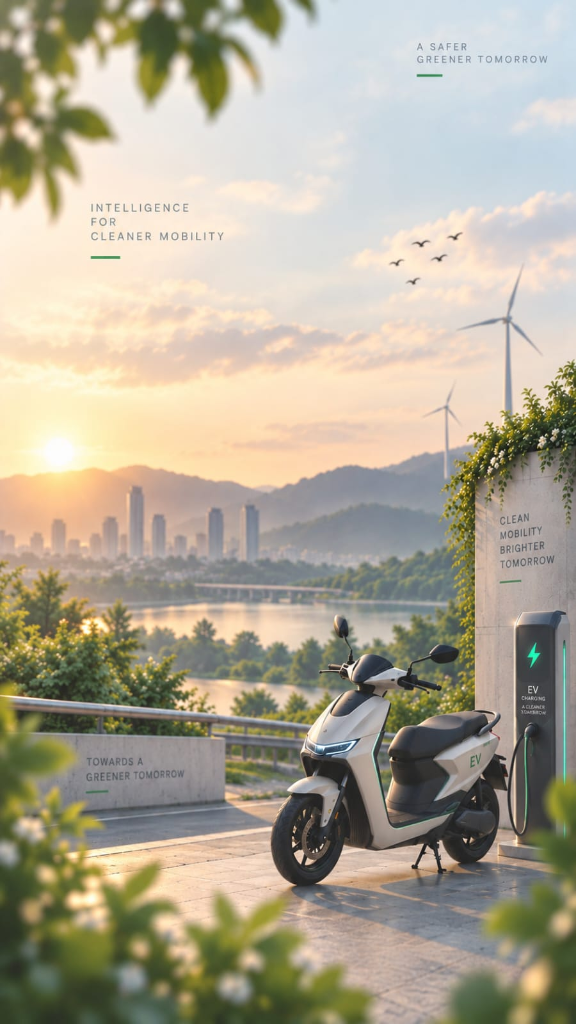
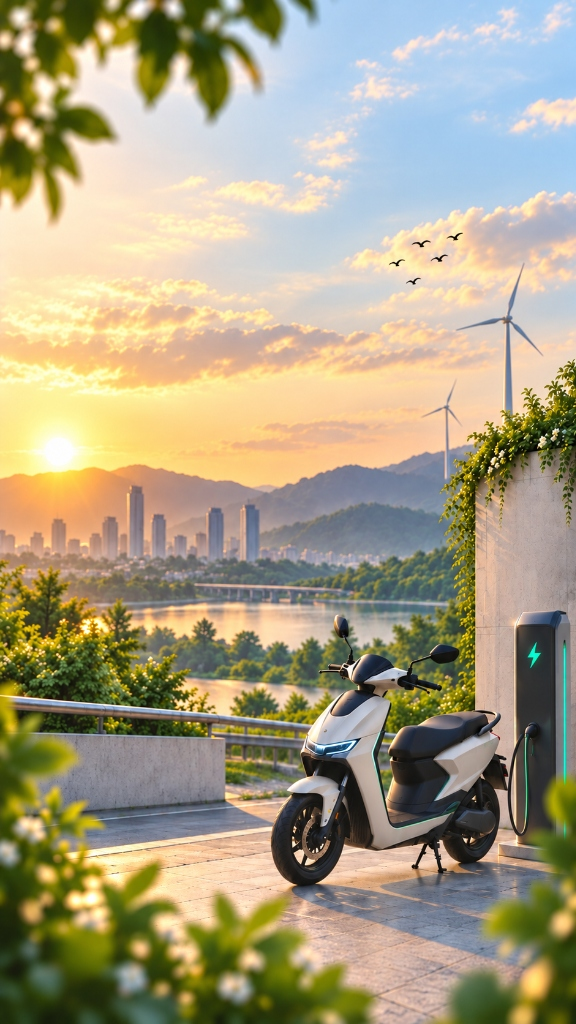
feat: add 70% opacity scooter bg to login screen, make login box transparent, remove bg image from dashboard

diff --git a/frontend/src/screens/LoginScreen.tsx b/frontend/src/screens/LoginScreen.tsx
@@ -3,6 +3,7 @@ import { Battery3DView } from '../components/Battery3DView';
 import { ErrorBoundary } from '../components/ErrorBoundary';
 import { Lock, Mail, ArrowRight, PlayCircle, Eye, EyeOff, UserPlus, Leaf, ShieldCheck, BarChart2 } from 'lucide-react';
 import { apiService } from '../services/api';
+import scooterBg from '../assets/scooter_bg.jpg';
 
 interface LoginScreenProps {
   onLoginSuccess: (isDemo?: boolean) => void;
@@ -41,17 +42,17 @@ export const LoginScreen: React.FC<LoginScreenProps> = ({
 
   return (
     <div 
-      className="min-h-screen bg-slate-900 flex items-center justify-center p-0 sm:p-4 selection:bg-emerald-500/20 bg-cover bg-center relative"
-      style={{ backgroundImage: "linear-gradient(rgba(15, 23, 42, 0.4), rgba(15, 23, 42, 0.4)), url('/ev_scooter_hero.png')" }}
+      className="min-h-screen bg-slate-950 flex items-center justify-center p-0 sm:p-4 selection:bg-emerald-500/20 bg-cover bg-center relative overflow-hidden"
+      style={{ backgroundImage: `url(${scooterBg})` }}
     >
-      {/* MOBILE APP CONTAINER FRAME */}
-      <div className="w-full sm:max-w-[400px] min-h-screen sm:min-h-[850px] sm:max-h-[920px] sm:rounded-[46px] relative overflow-hidden shadow-2xl border-0 sm:border-[10px] sm:border-slate-900 bg-white/80 text-slate-900 flex flex-col justify-between p-4 sm:p-5 backdrop-blur-xs">
-        
-        {/* 60% VISIBILITY BACKGROUND IMAGE OVERLAY */}
-        <div 
-          className="absolute inset-0 z-0 bg-cover bg-center pointer-events-none opacity-60"
-          style={{ backgroundImage: "url('/ev_scooter_hero.png')" }}
-        />
+      {/* 70% VISIBILITY BACKGROUND OVERLAY */}
+      <div 
+        className="absolute inset-0 z-0 bg-cover bg-center pointer-events-none opacity-70"
+        style={{ backgroundImage: `url(${scooterBg})` }}
+      />
+
+      {/* MOBILE APP CONTAINER FRAME (100% TRANSPARENT CONTAINER) */}
+      <div className="w-full sm:max-w-[400px] min-h-screen sm:min-h-[850px] sm:max-h-[920px] sm:rounded-[46px] relative overflow-hidden shadow-2xl border-0 sm:border-[10px] sm:border-slate-900/80 bg-transparent text-slate-900 flex flex-col justify-between p-4 sm:p-5 z-10 backdrop-blur-none">
 
         {/* iOS TOP STATUS BAR */}
         <div className="relative z-10 flex items-center justify-between text-xs font-black text-slate-900 select-none pt-1 pb-1">
@@ -63,7 +64,7 @@ export const LoginScreen: React.FC<LoginScreenProps> = ({
         </div>
 
         {/* TOP SUB-TAGLINE */}
-        <div className="relative z-10 flex items-center justify-end text-[10px] font-bold text-slate-700 gap-1.5 pt-1">
+        <div className="relative z-10 flex items-center justify-end text-[10px] font-bold text-slate-800 gap-1.5 pt-1">
           <Leaf className="w-3.5 h-3.5 text-[#059669]" />
           <div className="text-right leading-tight text-[9px] font-black">
             A Cleaner<br />Greener Tomorrow
@@ -80,10 +81,10 @@ export const LoginScreen: React.FC<LoginScreenProps> = ({
           </div>
 
           <div className="flex items-center gap-1 mt-1">
-            <span className="text-2xl font-black tracking-tight text-slate-900">BRAIN</span>
-            <span className="text-2xl font-black tracking-tight text-[#059669]">EV</span>
+            <span className="text-2xl font-black tracking-tight text-slate-900 drop-shadow-sm">BRAIN</span>
+            <span className="text-2xl font-black tracking-tight text-[#059669] drop-shadow-sm">EV</span>
           </div>
-          <p className="text-xs font-bold text-slate-700">Battery Intelligence</p>
+          <p className="text-xs font-bold text-slate-800 drop-shadow-xs">Battery Intelligence</p>
           <p className="text-[11px] font-extrabold italic text-[#047857] drop-shadow-xs">“Think Ahead. Protect Every Battery.”</p>
         </div>
 
@@ -95,7 +96,7 @@ export const LoginScreen: React.FC<LoginScreenProps> = ({
             </ErrorBoundary>
           </div>
           
-          <div className="text-[10px] font-extrabold text-slate-700 tracking-wide mt-1 bg-white/70 px-2.5 py-0.5 rounded-full border border-slate-200/80 backdrop-blur-xs">
+          <div className="text-[10px] font-extrabold text-slate-800 tracking-wide mt-1 bg-white/80 px-2.5 py-0.5 rounded-full border border-slate-200/80 backdrop-blur-xs shadow-2xs">
             Drag to <span className="text-[#059669]">rotate</span> • Pinch to <span className="text-[#059669]">zoom</span>
           </div>
           
@@ -107,8 +108,8 @@ export const LoginScreen: React.FC<LoginScreenProps> = ({
           </div>
         </div>
 
-        {/* 3. INPUT FORM CARD */}
-        <div className="relative z-10 space-y-2.5 my-1 bg-white/80 backdrop-blur-md p-3.5 rounded-3xl border border-white/90 shadow-md">
+        {/* 3. INPUT FORM CARD - 100% TRANSPARENT LOGIN BOX */}
+        <div className="relative z-10 space-y-2.5 my-1 bg-transparent p-3.5 rounded-3xl border border-white/30">
           {errorMsg && (
             <div className="p-2 rounded-xl bg-red-600 text-white text-xs font-bold shadow-md">
               {errorMsg}
@@ -117,31 +118,31 @@ export const LoginScreen: React.FC<LoginScreenProps> = ({
 
           <form onSubmit={handleLoginSubmit} className="space-y-2.5">
             <div className="relative">
-              <Mail className="w-4 h-4 text-slate-400 absolute left-4 top-1/2 -translate-y-1/2" />
+              <Mail className="w-4 h-4 text-slate-500 absolute left-4 top-1/2 -translate-y-1/2" />
               <input
                 type="email"
                 value={email}
                 onChange={(e) => setEmail(e.target.value)}
                 required
-                className="w-full pl-11 pr-4 py-3 bg-white/90 border border-slate-200 rounded-2xl text-xs font-bold text-slate-900 placeholder-slate-400 focus:outline-none focus:border-[#059669] focus:ring-2 focus:ring-[#059669]/20 transition shadow-2xs"
+                className="w-full pl-11 pr-4 py-3 bg-white/90 border border-slate-300 rounded-2xl text-xs font-bold text-slate-900 placeholder-slate-500 focus:outline-none focus:border-[#059669] focus:ring-2 focus:ring-[#059669]/20 transition shadow-xs focus:bg-white"
                 placeholder="researcher@brain-ev.org"
               />
             </div>
 
             <div className="relative">
-              <Lock className="w-4 h-4 text-slate-400 absolute left-4 top-1/2 -translate-y-1/2" />
+              <Lock className="w-4 h-4 text-slate-500 absolute left-4 top-1/2 -translate-y-1/2" />
               <input
                 type={showPassword ? 'text' : 'password'}
                 value={password}
                 onChange={(e) => setPassword(e.target.value)}
                 required
-                className="w-full pl-11 pr-11 py-3 bg-white/90 border border-slate-200 rounded-2xl text-xs font-bold text-slate-900 placeholder-slate-400 focus:outline-none focus:border-[#059669] focus:ring-2 focus:ring-[#059669]/20 transition shadow-2xs"
+                className="w-full pl-11 pr-11 py-3 bg-white/90 border border-slate-300 rounded-2xl text-xs font-bold text-slate-900 placeholder-slate-500 focus:outline-none focus:border-[#059669] focus:ring-2 focus:ring-[#059669]/20 transition shadow-xs focus:bg-white"
                 placeholder="••••••••••••"
               />
               <button
                 type="button"
                 onClick={() => setShowPassword(!showPassword)}
-                className="absolute right-4 top-1/2 -translate-y-1/2 text-slate-400 hover:text-slate-700 transition cursor-pointer"
+                className="absolute right-4 top-1/2 -translate-y-1/2 text-slate-500 hover:text-slate-800 transition cursor-pointer"
               >
                 {showPassword ? <EyeOff className="w-4 h-4" /> : <Eye className="w-4 h-4" />}
               </button>
@@ -151,7 +152,7 @@ export const LoginScreen: React.FC<LoginScreenProps> = ({
               <button
                 type="button"
                 onClick={() => alert('Forgot password instructions sent to your email.')}
-                className="text-[11px] font-extrabold text-[#059669] hover:underline cursor-pointer"
+                className="text-[11px] font-black text-[#047857] hover:underline cursor-pointer bg-white/80 px-2 py-0.5 rounded-md backdrop-blur-xs"
               >
                 Forgot Password?
               </button>
@@ -160,7 +161,7 @@ export const LoginScreen: React.FC<LoginScreenProps> = ({
             <button
               type="submit"
               disabled={isSubmitting}
-              className="w-full py-3.5 bg-[#059669] hover:bg-[#047857] text-white font-extrabold text-xs sm:text-sm rounded-2xl transition flex items-center justify-center gap-2 shadow-md uppercase tracking-wider cursor-pointer active:scale-[0.99]"
+              className="w-full py-3.5 bg-[#059669] hover:bg-[#047857] text-white font-black text-xs sm:text-sm rounded-2xl transition flex items-center justify-center gap-2 shadow-lg uppercase tracking-wider cursor-pointer active:scale-[0.99]"
             >
               <span>{isSubmitting ? 'Authenticating...' : 'Sign In'}</span>
               <ArrowRight className="w-4 h-4 stroke-[2.5]" />
@@ -170,9 +171,9 @@ export const LoginScreen: React.FC<LoginScreenProps> = ({
           {/* DIVIDER */}
           <div className="relative my-2 flex items-center justify-center">
             <div className="absolute inset-0 flex items-center">
-              <div className="w-full border-t border-slate-200" />
+              <div className="w-full border-t border-slate-300/80" />
             </div>
-            <span className="relative bg-white/90 px-3 text-[9px] font-bold text-slate-500 uppercase tracking-widest rounded-full">
+            <span className="relative bg-white/80 px-3 text-[9px] font-black text-slate-700 uppercase tracking-widest rounded-full backdrop-blur-xs">
               OR
             </span>
           </div>
@@ -182,7 +183,7 @@ export const LoginScreen: React.FC<LoginScreenProps> = ({
             <button
               type="button"
               onClick={handleDemoClick}
-              className="py-2.5 px-2 bg-white/90 text-[#059669] border border-slate-200 rounded-2xl text-[11px] font-bold hover:bg-slate-50 transition flex items-center justify-center gap-1.5 shadow-2xs cursor-pointer"
+              className="py-2.5 px-2 bg-white/90 text-[#059669] border border-slate-300 rounded-2xl text-[11px] font-extrabold hover:bg-white transition flex items-center justify-center gap-1.5 shadow-xs cursor-pointer"
             >
               <PlayCircle className="w-3.5 h-3.5 text-[#059669]" />
               <span>Demo Mode</span>
@@ -190,27 +191,27 @@ export const LoginScreen: React.FC<LoginScreenProps> = ({
             <button
               type="button"
               onClick={onNavigateRegister}
-              className="py-2.5 px-2 bg-white/90 text-slate-700 border border-slate-200 rounded-2xl text-[11px] font-bold hover:bg-slate-50 transition flex items-center justify-center gap-1.5 shadow-2xs cursor-pointer"
+              className="py-2.5 px-2 bg-white/90 text-slate-800 border border-slate-300 rounded-2xl text-[11px] font-extrabold hover:bg-white transition flex items-center justify-center gap-1.5 shadow-xs cursor-pointer"
             >
-              <UserPlus className="w-3.5 h-3.5 text-slate-500" />
+              <UserPlus className="w-3.5 h-3.5 text-slate-600" />
               <span>Register</span>
             </button>
           </div>
         </div>
 
         {/* 4. THREE BOTTOM FEATURE BADGES */}
-        <div className="relative z-10 grid grid-cols-3 gap-2 pt-2 border-t border-slate-200/60 text-center bg-white/60 backdrop-blur-xs rounded-2xl p-1.5">
+        <div className="relative z-10 grid grid-cols-3 gap-2 pt-2 border-t border-white/40 text-center bg-white/50 backdrop-blur-xs rounded-2xl p-1.5">
           <div className="flex flex-col items-center gap-0.5">
             <ShieldCheck className="w-4 h-4 text-[#059669]" />
-            <span className="text-[9px] font-extrabold text-slate-800 leading-tight">Safer<br />Batteries</span>
+            <span className="text-[9px] font-extrabold text-slate-900 leading-tight">Safer<br />Batteries</span>
           </div>
           <div className="flex flex-col items-center gap-0.5">
             <Leaf className="w-4 h-4 text-[#059669]" />
-            <span className="text-[9px] font-extrabold text-slate-800 leading-tight">Smarter<br />Mobility</span>
+            <span className="text-[9px] font-extrabold text-slate-900 leading-tight">Smarter<br />Mobility</span>
           </div>
           <div className="flex flex-col items-center gap-0.5">
             <BarChart2 className="w-4 h-4 text-[#059669]" />
-            <span className="text-[9px] font-extrabold text-slate-800 leading-tight">Brighter<br />Tomorrow</span>
+            <span className="text-[9px] font-extrabold text-slate-900 leading-tight">Brighter<br />Tomorrow</span>
           </div>
         </div>
       </div>

diff --git a/frontend/src/App.tsx b/frontend/src/App.tsx
@@ -84,9 +84,6 @@ export function App() {
   const [bleConnecting, setBleConnecting] = useState(false);
   const [bleError, setBleError] = useState('');
 
-  // Dashboard Background Visibility Opacity (0% - 100%)
-  const [dashboardBgOpacity, setDashboardBgOpacity] = useState<number>(30);
-
   useEffect(() => {
     const checkBackend = async () => {
       const res = await apiService.checkBackendStatus();
@@ -158,19 +155,10 @@ export function App() {
   };
 
   return (
-    <div 
-      className="min-h-screen bg-slate-950 flex items-center justify-center p-0 sm:p-4 selection:bg-emerald-500/20 bg-cover bg-center relative"
-      style={{ backgroundImage: "linear-gradient(rgba(15, 23, 42, 0.6), rgba(15, 23, 42, 0.6)), url('/ev_scooter_hero.png')" }}
-    >
+    <div className="min-h-screen bg-slate-950 flex items-center justify-center p-0 sm:p-4 selection:bg-emerald-500/20 relative">
       {/* MOBILE APP CONTAINER FRAME (Full Viewport on Mobile, Phone Shell on Desktop) */}
-      <div className="w-full sm:max-w-md min-h-screen sm:min-h-[840px] sm:max-h-[920px] sm:rounded-[40px] relative overflow-hidden shadow-2xl border-0 sm:border-[8px] sm:border-slate-800 bg-slate-100/90 text-slate-900 flex flex-col justify-between backdrop-blur-xs">
+      <div className="w-full sm:max-w-md min-h-screen sm:min-h-[840px] sm:max-h-[920px] sm:rounded-[40px] relative overflow-hidden shadow-2xl border-0 sm:border-[8px] sm:border-slate-800 bg-slate-100 text-slate-900 flex flex-col justify-between">
         
-        {/* EV SCOOTER BACKGROUND OVERLAY FOR DASHBOARD (DASHBOARD VISIBILITY CONTROLLED BY dashboardBgOpacity) */}
-        <div 
-          className="absolute inset-0 z-0 bg-cover bg-center pointer-events-none transition-opacity duration-300"
-          style={{ backgroundImage: "url('/ev_scooter_hero.png')", opacity: dashboardBgOpacity / 100 }}
-        />
-
         {/* 1. HEADER WITH OLA/ATHER BRANDING */}
         <header className="sticky top-0 z-30 bg-white/90 backdrop-blur-md border-b border-slate-200/80 px-3 py-2 flex items-center justify-between shadow-sm shrink-0">
           <div className="flex items-center gap-1.5">
@@ -197,22 +185,8 @@ export function App() {
             </span>
           </div>
 
-          {/* Status Light & Scenario & Background Opacity Switcher */}
+          {/* Status Light & Scenario Switcher */}
           <div className="flex items-center gap-1.5">
-            {/* Background Visibility Opacity Selector */}
-            <select
-              value={dashboardBgOpacity}
-              onChange={(e) => setDashboardBgOpacity(Number(e.target.value))}
-              title="Dashboard Background Visibility"
-              className="text-[9px] font-bold bg-white/90 border border-slate-300 rounded-xl px-1.5 py-1 text-slate-700 focus:outline-none focus:border-emerald-500 cursor-pointer shadow-2xs"
-            >
-              <option value={60}>BG: 60%</option>
-              <option value={40}>BG: 40%</option>
-              <option value={30}>BG: 30%</option>
-              <option value={15}>BG: 15%</option>
-              <option value={0}>BG: 0%</option>
-            </select>
-
             <div className="flex items-center gap-1 bg-slate-100/90 border border-slate-200 rounded-xl px-2 py-1 shadow-2xs">
               <span className={`w-2 h-2 rounded-full ${getStatusLightClass(demoStatus)}`} />
               <span className="text-[10px] font-mono font-extrabold tracking-wider text-slate-800">
